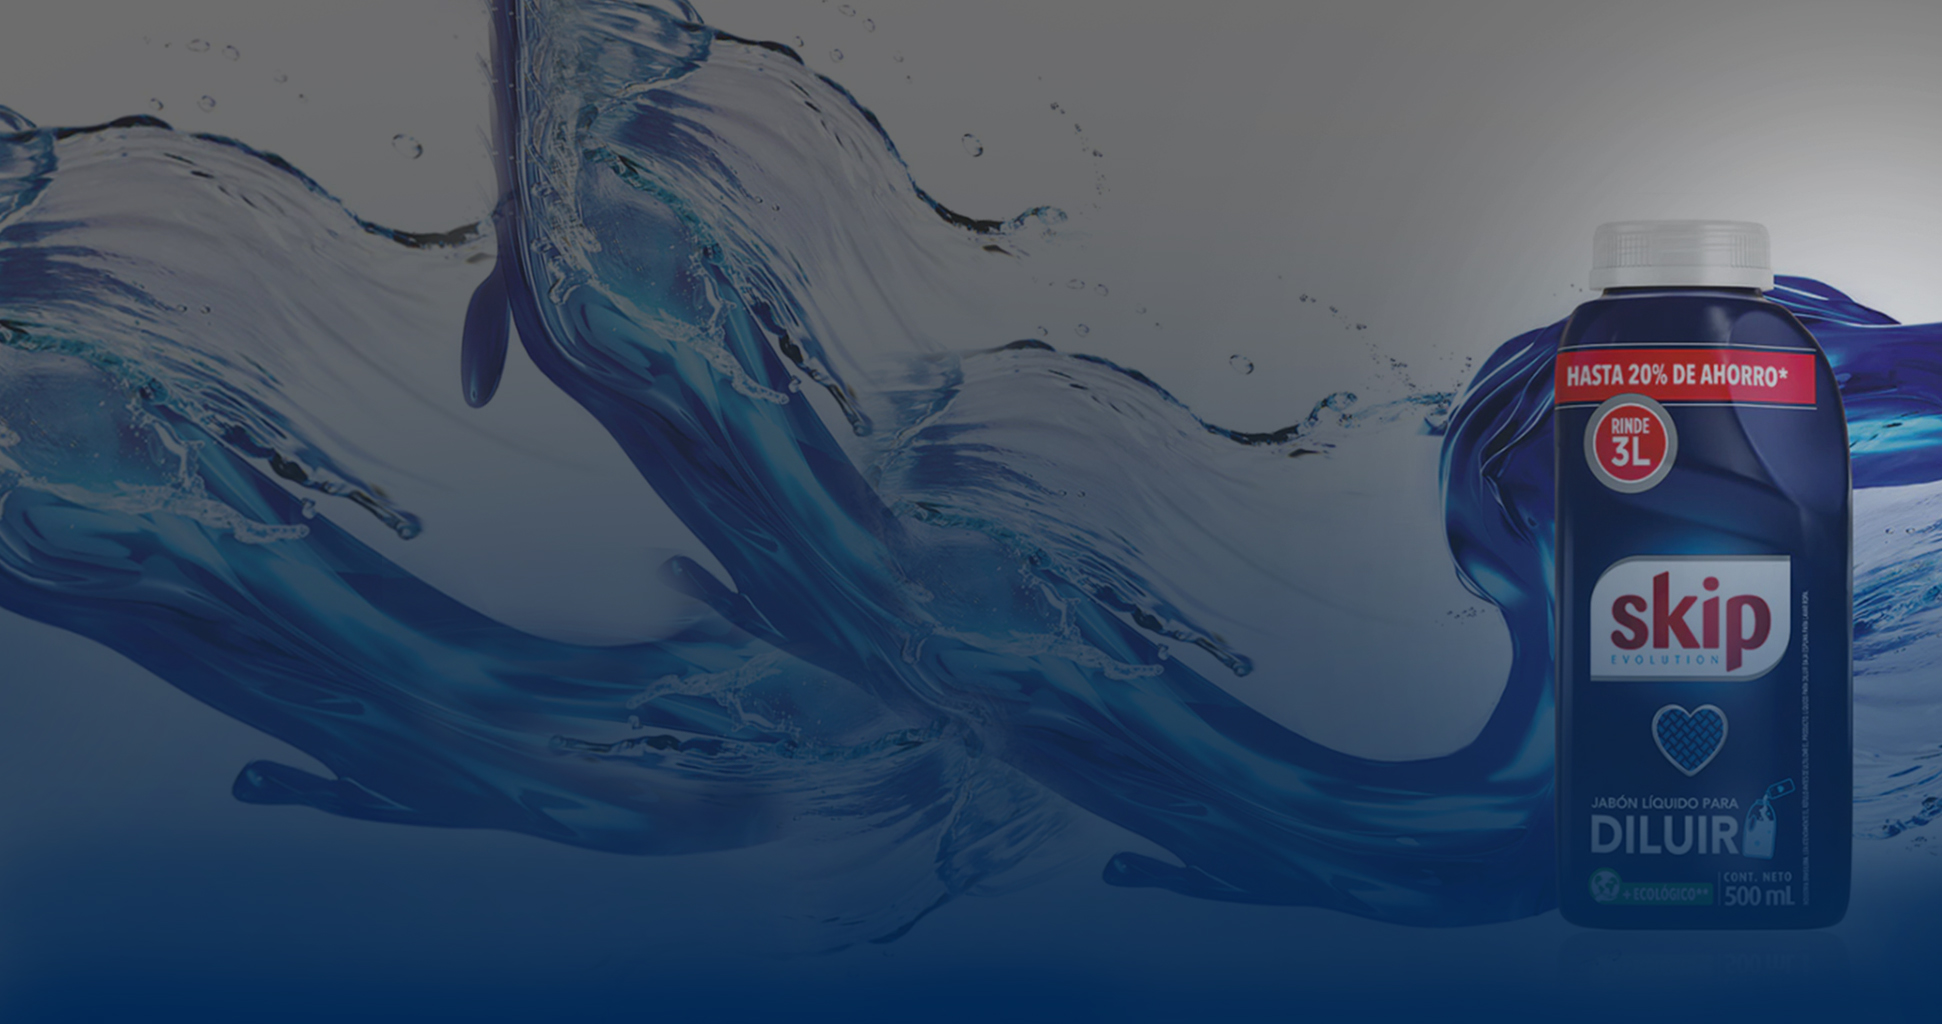
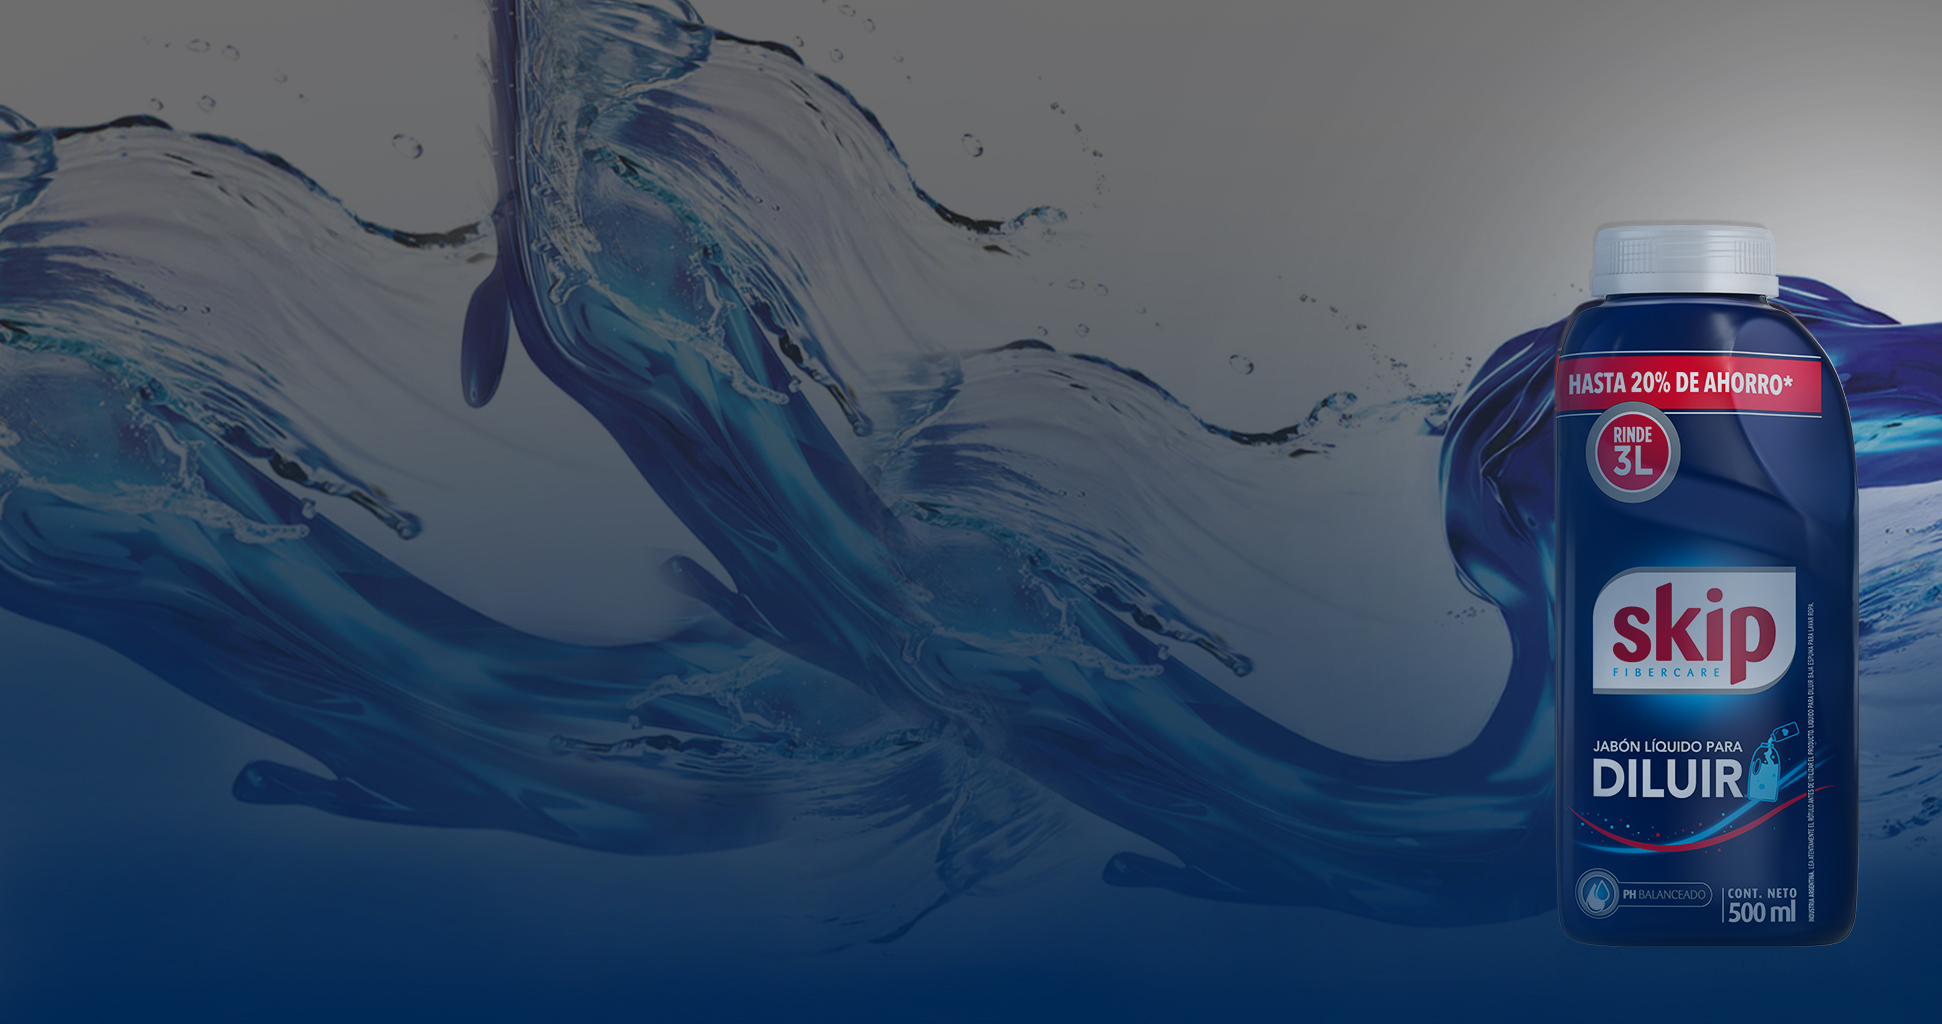
actualizaciones

Changed region(s): [[0.8033, 0.2188, 0.9578, 0.9375], [0.0618, 0.6562, 0.0927, 0.6875]]

diff --git a/index.html b/index.html
@@ -87,7 +87,7 @@
                                 </div>
                             </div>
                         </div>
-                        <div class="section mcb-section highlight-left" style="padding-top:0px; padding-bottom:0px; background-image:url(imgss/780x690azul.jpg); background-repeat:no-repeat; background-position:right bottom; background-color: #002855">
+                        <div class="section mcb-section highlight-left" style="padding-top:0px; padding-bottom:0px; background-image:url(imgss/opciones-principio/ecologico2.jpg); background-repeat:no-repeat; background-position:right bottom; background-color: #002855">
                             <div class="section_wrapper mcb-section-inner">
                                 <div class="wrap mcb-wrap one-sixth valign-top clearfix">
                                     <div class="mcb-wrap-inner">
@@ -129,7 +129,7 @@
                                         <div class="column mcb-column four-fifth column_image">
                                             <div class="image_frame image_item no_link scale-with-grid no_border" style="margin-bottom:-150px">
                                                 <div class="image_wrapper">
-                                                    <img class="scale-with-grid" src="imgss/780x855azul.jpg">
+                                                    <img class="scale-with-grid" src="imgss/opciones-principio/reciclable2.jpg">
                                                 </div>
                                             </div>
                                         </div>
@@ -194,7 +194,7 @@
                             </div>
                         </div>
                         
-                        <div class="section mcb-section no-margin-h no-margin-v dark equal-height equal-height-wrap   bg-cover" style=" background-image: url(/imgss/disruptivo.jpg);" id="disruptivo">
+                        <div class="section mcb-section no-margin-h no-margin-v dark equal-height equal-height-wrap   bg-cover" style=" background-image: url(/imgss/disruptivo-si.jpg);" id="disruptivo">
                             <div class="section_wrapper mcb-section-inner">
                                 <div class="wrap mcb-wrap one-second valign-middle clearfix" style="padding:30px 0; width: 80%;">
                                     <div class="mcb-wrap-inner">
@@ -593,7 +593,7 @@
                         </div> -->
                         
                         <a id="botonBeneficios" href="#popup-1" rel="prettyphoto" class="popup-link button button_js">
-                            <span class="button_label" style="color: black; font-family: avenir !important;">¡Descubrí los beneficios económicos!</span>
+                            <span class="button_label" style="color: black; font-family: avenir !important;">¡Descubrí por qué es mas conveniente!</span>
                         </a>
                          
                         <div id="popup-1" class="popup-content">

diff --git a/css/global.css b/css/global.css
@@ -524,7 +524,7 @@ a.button_large .button_icon {
 }
 #disruptivo{
 	padding-top: 200px;
-	padding-bottom: 100px;
+	padding-bottom: 200px;
 }
 #sustentable{
 	padding-bottom: 100px;
